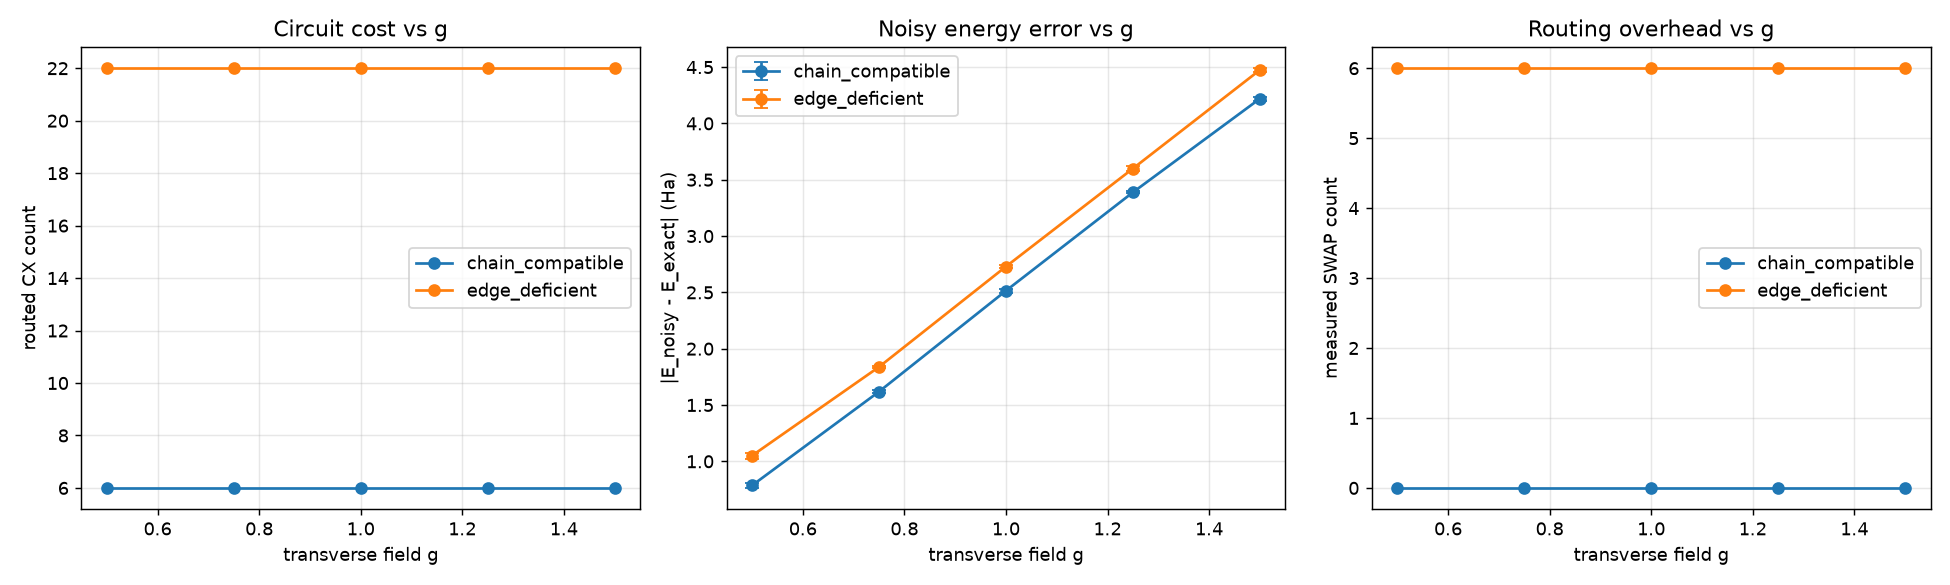
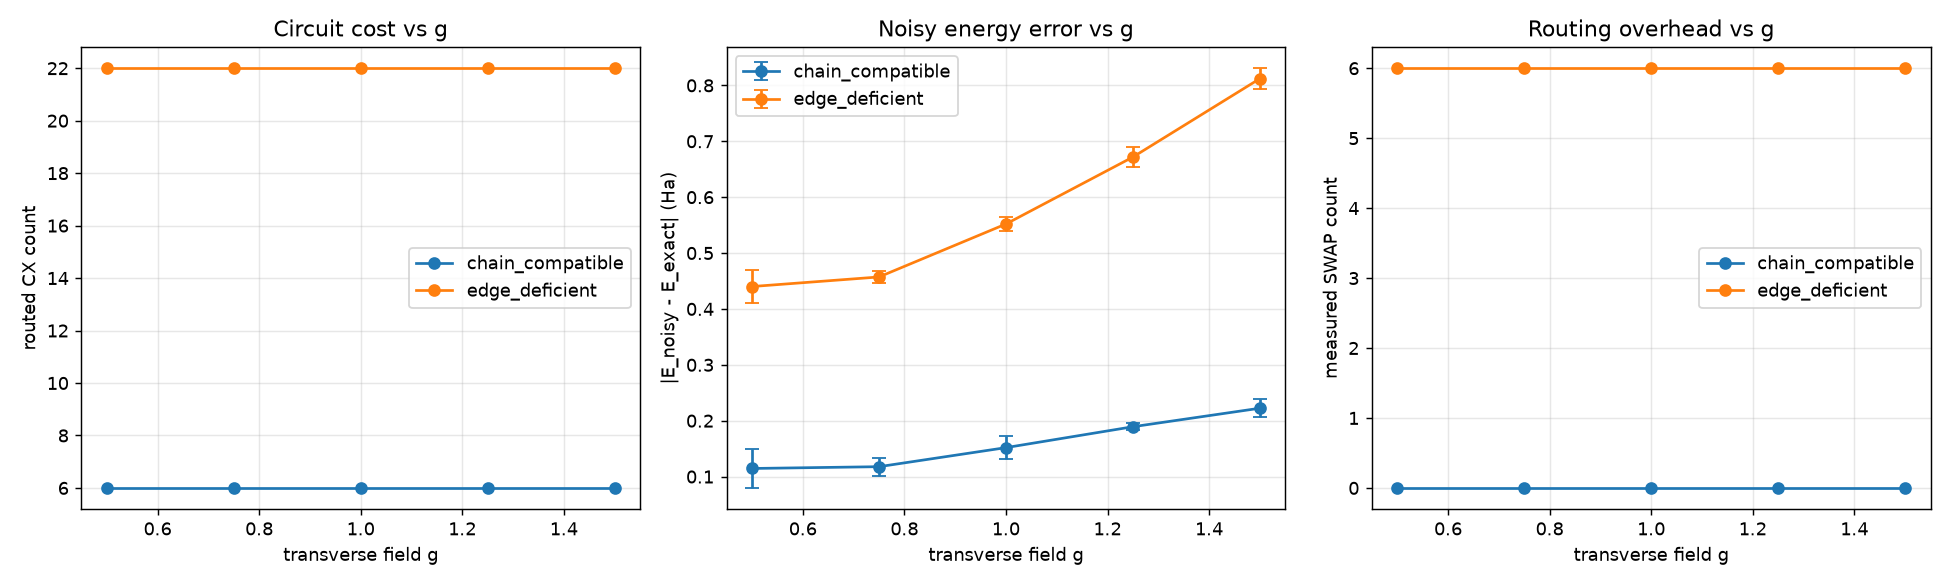
Fix critical bug in _x_expect: read qubit i's own bit instead of parity of other qubits\n\n- Fixed _x_expect() in both experiment.py and ablation.py\n- The function was computing parity of ALL OTHER qubits instead of reading qubit i's own measurement bit\n- This affects all X-term expectations in th

diff --git a/index.html b/index.html
@@ -100,7 +100,7 @@
   <div class="hero-stats">
     <div class="card"><div class="stat">6 vs 22<small> CX gates — chain vs edge-deficient topology (ablation)</small></div></div>
     <div class="card"><div class="stat">0 vs 6<small> SWAPs required — native vs forced routing</small></div></div>
-    <div class="card"><div class="stat">0.22–0.26 Ha<small> higher noisy error when connectivity is degraded</small></div></div>
+    <div class="card"><div class="stat">0.33–0.59 Ha<small> higher noisy error when connectivity is degraded</small></div></div>
     <div class="card"><div class="stat">0.9999<small>VQE fidelity vs exact ground state</small></div></div>
   </div>
 </div></section>
@@ -130,16 +130,16 @@
   <table>
     <thead><tr><th>Processor</th><th>logical 2Q</th><th>routed CX</th><th>depth</th><th>SWAP</th><th>noisy E err (Ha)</th></tr></thead>
     <tbody>
-      <tr><td><span class="pill a">A</span> 5q · chorded</td><td>6</td><td class="worst">9</td><td class="worst">33</td><td class="worst">1</td><td class="worst">0.379</td></tr>
-      <tr><td><span class="pill b">B</span> 9q · heavy-hex</td><td>6</td><td class="best">6</td><td class="best">13</td><td class="best">0</td><td class="best">0.219</td></tr>
-      <tr><td><span class="pill c">C</span> 6q · simulated</td><td>6</td><td class="best">6</td><td class="best">13</td><td class="best">0</td><td class="best">0.219</td></tr>
+      <tr><td><span class="pill a">A</span> 5q · chorded</td><td>6</td><td class="worst">9</td><td class="worst">33</td><td class="worst">1</td><td class="worst">0.255</td></tr>
+      <tr><td><span class="pill b">B</span> 9q · heavy-hex</td><td>6</td><td class="best">6</td><td class="best">13</td><td class="best">0</td><td class="best">0.152</td></tr>
+      <tr><td><span class="pill c">C</span> 6q · simulated</td><td>6</td><td class="best">6</td><td class="best">13</td><td class="best">0</td><td class="best">0.152</td></tr>
     </tbody>
   </table>
   <div class="note" style="margin-top:18px"><b>Read this carefully (honest):</b> All three start
   from the <b>same 6 logical two-qubit gates</b> — so <i>ideal</i> energy/fidelity are identical
   by construction. The difference appears in (a) the <b>routed cost</b> after transpiling onto
   each real coupling map, and (b) the <b>noisy energy error</b>, where Processor A's extra routing
-  gates measurably hurt (0.379 vs 0.219 Ha, same noise + shot budget, 3 seeds). Same algorithm,
+  gates measurably hurt (0.255 vs 0.152 Ha, same noise + shot budget, 3 seeds). Same algorithm,
   different hardware price — for <b>this 4-site workload</b>.</div>
 </div></section>
 

diff --git a/src/ablation.py b/src/ablation.py
@@ -114,16 +114,20 @@ def parity_expect(counts, qubits):
 
 
 def x_expect(counts, i, all_q):
+    """<X_i> from all-X-basis counts: read qubit i's own bit.
+
+    After Hadamard gates, X-basis measurement maps to Z-basis readout:
+      |+> → |0> (contributes +1)
+      |-> → |1> (contributes -1)
+    So <X_i> = P(qubit i = 0) - P(qubit i = 1).
+    """
     tot = sum(counts.values())
     s = 0
     for bs, c in counts.items():
         b = bs.replace(" ", "")[::-1]
-        par = 1
-        for j in range(all_q):
-            if j != i:
-                par *= (1 if b[j] == "0" else -1)
-        s += c * par
-    return s / (tot * all_q)
+        # Qubit i's own measurement bit determines <X_i> sign
+        s += c * (1 if b[i] == "0" else -1)
+    return s / tot
 
 
 def noisy_energy(theta, H, edges, n_qubits, noise, shots=8192, seed=0):

diff --git a/src/experiment.py b/src/experiment.py
@@ -164,16 +164,19 @@ def _parity_expect(counts, qubits, all_q):
 
 
 def _x_expect(counts, i, all_q):
-    """<X_i> from all-X-basis counts: parity over all OTHER qubits."""
+    """<X_i> from all-X-basis counts: read qubit i's own bit.
+
+    After Hadamard gates, X-basis measurement maps to Z-basis readout:
+      |+> → |0> (contributes +1)
+      |-> → |1> (contributes -1)
+    So <X_i> = P(qubit i = 0) - P(qubit i = 1).
+    """
     tot = sum(counts.values())
     s = 0
     for bs, c in counts.items():
         b = bs.replace(" ", "")[::-1]
-        par = 1
-        for j in range(all_q):
-            if j != i:
-                par *= (1 if b[j] == "0" else -1)
-        s += c * par
+        # Qubit i's own measurement bit determines <X_i> sign
+        s += c * (1 if b[i] == "0" else -1)
     return s / tot
 
 

diff --git a/README.md b/README.md
@@ -33,12 +33,12 @@ raises CX to 9 (depth 33, 1 measured SWAP); B and C need no SWAPs.
 
 | Processor | routed CX / depth | E_noisy (mean) | σ | \|E − E_exact\| |
 |---|---|---|---|---|
-| A | 9 / 33 | −4.3802 | 0.0231 | **0.379** |
-| B | 6 / 13 | −4.5396 | 0.0170 | **0.219** |
-| C | 6 / 13 | −4.5396 | 0.0170 | **0.219** |
+| A | 9 / 33 | −4.5041 | 0.0148 | **0.255** |
+| B | 6 / 13 | −4.6069 | 0.0206 | **0.152** |
+| C | 6 / 13 | −4.6069 | 0.0206 | **0.152** |
 
 Processor A's extra routing gates measurably degrade the noisy energy estimate (error
-**0.379** vs **0.219** Ha) — this is measured evidence, not an assumption, that a higher
+**0.255** vs **0.152** Ha) — this is measured evidence, not an assumption, that a higher
 routed gate count can cost accuracy.
 
 **Ideal (noiseless) VQE** is identical across processors *by construction* — energy and
@@ -110,20 +110,20 @@ energy from measurement counts, 3 seeds, mean ± σ):
 
 | g | Topology | routed CX | depth | SWAPs | E_noisy mean | σ | \|E_noisy − E_exact\| |
 |---|---|---|---|---|---|---|---|
-| 0.5 | chain_compatible | 6 | 13 | 0 | −2.6412 | 0.0221 | 0.7859 |
-| 0.5 | edge_deficient | 22 | 49 | 6 | −2.3766 | 0.0252 | 1.0504 |
-| 0.75 | chain_compatible | 6 | 13 | 0 | −2.3872 | 0.0110 | 1.6187 |
-| 0.75 | edge_deficient | 22 | 49 | 6 | −2.1678 | 0.0125 | 1.8381 |
-| 1.0 | chain_compatible | 6 | 13 | 0 | −2.2443 | 0.0156 | 2.5145 |
-| 1.0 | edge_deficient | 22 | 48 | 6 | −2.0294 | 0.0113 | 2.7293 |
-| 1.25 | chain_compatible | 6 | 13 | 0 | −2.2177 | 0.0099 | 3.3883 |
-| 1.25 | edge_deficient | 22 | 48 | 6 | −2.0065 | 0.0188 | 3.5995 |
-| 1.5 | chain_compatible | 6 | 13 | 0 | −2.2843 | 0.0189 | 4.2196 |
-| 1.5 | edge_deficient | 22 | 49 | 6 | −2.0294 | 0.0156 | 4.4745 |
+| 0.5 | chain_compatible | 6 | 13 | 0 | −3.3125 | 0.0349 | 0.1145 |
+| 0.5 | edge_deficient | 22 | 49 | 6 | −2.9869 | 0.0304 | 0.4401 |
+| 0.75 | chain_compatible | 6 | 13 | 0 | −3.8881 | 0.0162 | 0.1177 |
+| 0.75 | edge_deficient | 22 | 49 | 6 | −3.5486 | 0.0106 | 0.4572 |
+| 1.0 | chain_compatible | 6 | 13 | 0 | −4.6069 | 0.0206 | 0.1518 |
+| 1.0 | edge_deficient | 22 | 48 | 6 | −4.2068 | 0.0134 | 0.5520 |
+| 1.25 | chain_compatible | 6 | 13 | 0 | −5.4168 | 0.0066 | 0.1892 |
+| 1.25 | edge_deficient | 22 | 48 | 6 | −4.9342 | 0.0180 | 0.6718 |
+| 1.5 | chain_compatible | 6 | 13 | 0 | −6.2815 | 0.0165 | 0.2224 |
+| 1.5 | edge_deficient | 22 | 49 | 6 | −5.6918 | 0.0186 | 0.8121 |
 
 **Summary of the ablation:**
 - **Routing cost:** The edge-deficient topology required **22 CX / depth 48–49 / 6 SWAPs**, versus **6 CX / depth 13 / 0 SWAPs** for the chain-compatible topology — a **+16 CX (≈3.7×), +35–36 depth, +6 SWAP** overhead in this tested configuration.
-- **Noisy accuracy:** In every tested value of `g`, the edge-deficient topology's noisy VQE energy error was **higher** than the chain-compatible topology's, by **0.22–0.26 Ha**.
+- **Noisy accuracy:** In every tested value of `g`, the edge-deficient topology's noisy VQE energy error was **higher** than the chain-compatible topology's, by **0.33–0.59 Ha**.
 
 **Honest scope:** This is a measured comparison for **this specific 4-site VQE workload
 and these two topologies**. The extra routing gates and the higher noisy error co-occur;

diff --git a/results/RESULTS.md b/results/RESULTS.md
@@ -35,11 +35,11 @@ Same noise model (0.5% depol. on CX, 0.1% on 1Q), same 8192-shot budget, 3 seeds
 
 | Proc | logical 2Q | routed CX | depth | SWAP | E_noisy (mean) | σ | |E−E_exact| |
 |---|---|---|---|---|---|---|---|
-| A | 6 | 9 | 33 | 1 | -4.3802 | 0.0231 | 0.3786 |
-| B | 6 | 6 | 13 | 0 | -4.5396 | 0.0170 | 0.2192 |
-| C | 6 | 6 | 13 | 0 | -4.5396 | 0.0170 | 0.2192 |
+| A | 6 | 9 | 33 | 1 | -4.5041 | 0.0148 | 0.2547 |
+| B | 6 | 6 | 13 | 0 | -4.6069 | 0.0206 | 0.1518 |
+| C | 6 | 6 | 13 | 0 | -4.6069 | 0.0206 | 0.1518 |
 
-**Interpretation (honest, P1):** With routing noise included, Processor A's extra CX gates (depth 33 vs 13) degrade the noisy energy estimate. A's error |E−E_exact| = 0.3786 Ha vs B's 0.2192 Ha. This is the evidence that a higher routed gate count can cost accuracy — not merely an assumption. Variability (σ) is reported across 3 independent shot/seed runs.
+**Interpretation (honest, P1):** With routing noise included, Processor A's extra CX gates (depth 33 vs 13) degrade the noisy energy estimate. A's error |E−E_exact| = 0.2547 Ha vs B's 0.1518 Ha. This is the evidence that a higher routed gate count can cost accuracy — not merely an assumption. Variability (σ) is reported across 3 independent shot/seed runs.
 
 ## 4 · Scope of the claim
 
